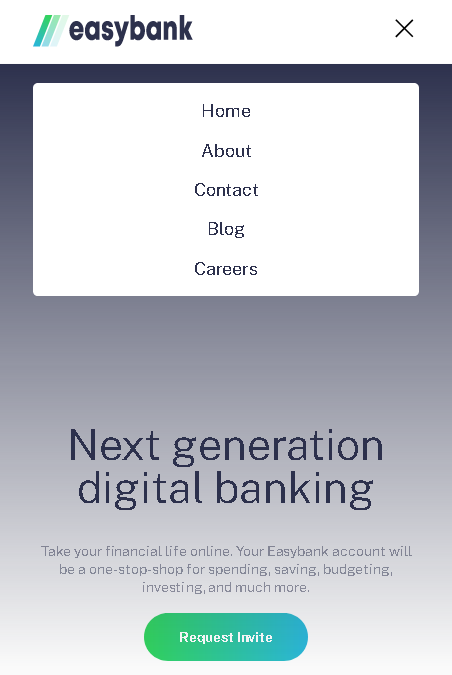
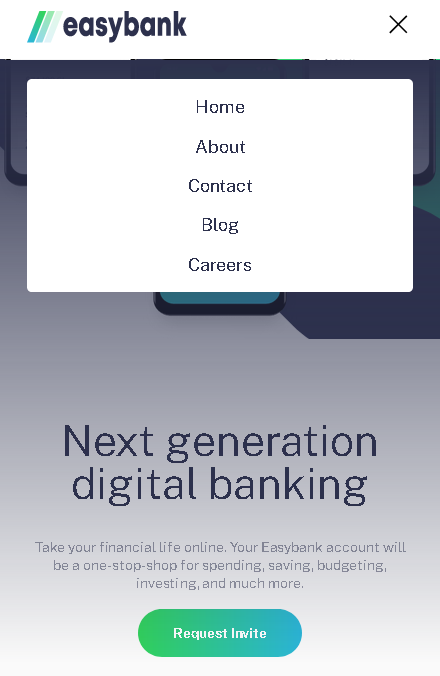
Fix link and images

diff --git a/5. Easybank/README.md b/5. Easybank/README.md
@@ -1,6 +1,6 @@
 # Deployed on Firebase
 
-[Website Preview](https://osu-nevz.web.app/)
+[Website Preview](https://easybank-nevz.web.app/)
 
 #
 
